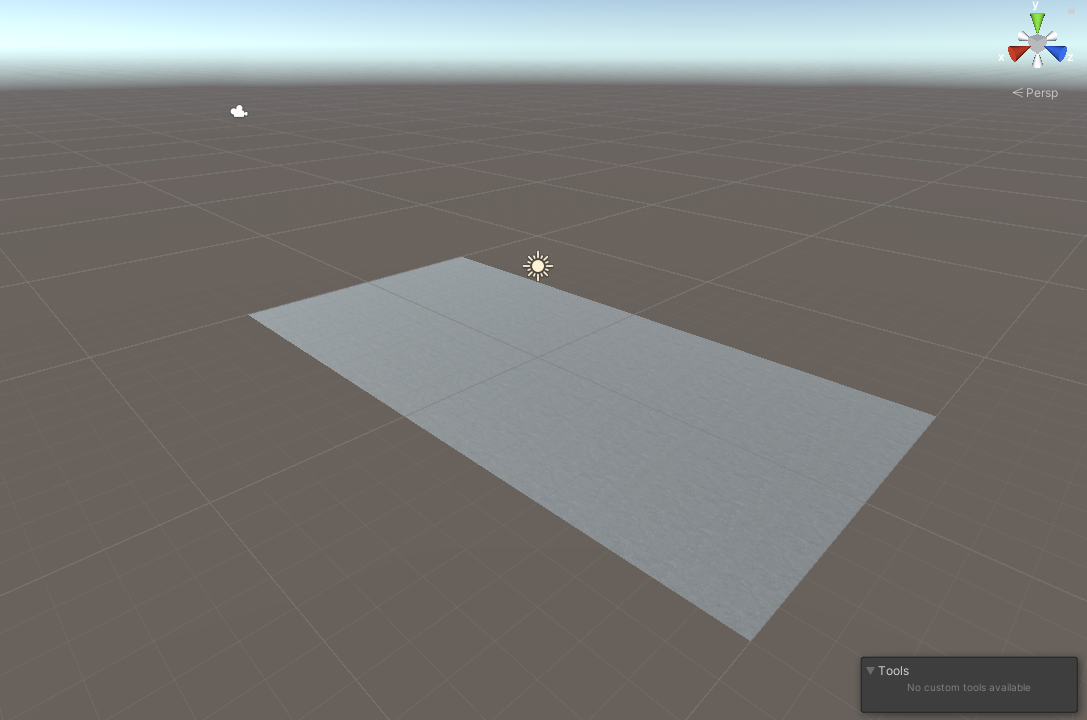
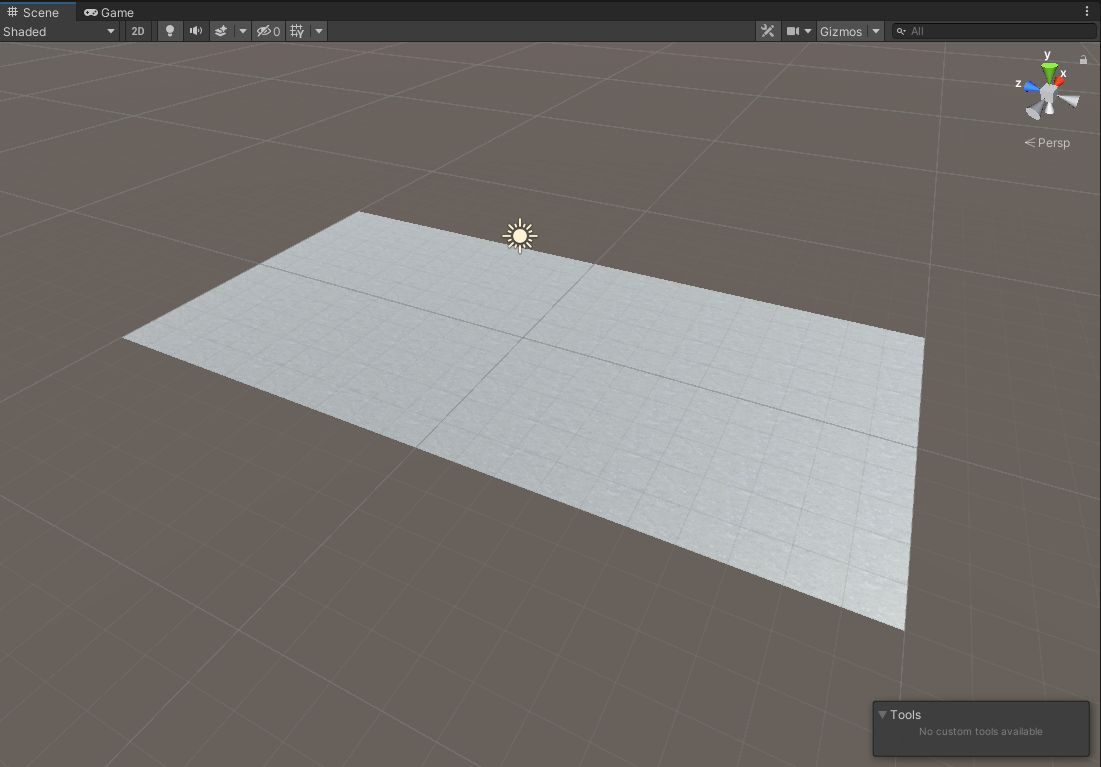
updates to step 2

diff --git a/en/step_2.md b/en/step_2.md
@@ -29,7 +29,7 @@ Download and unzip the [More Unity starter package](https://rpf.io/p/en/rainbow-
 
 Launch the Unity Hub and click **Projects** then select **New project**:
 
-![A screenshot of the black bar at the top of the Unity Hub with the 'New Project' button highlighted in red.](images/new_project.png)
+![A screenshot of the black bar at the top of the Unity Hub with the 'New Project' button highlighted in red.](images/new-project.png)
 
 From the list choose **All templates** then select **3D Core**:
 
@@ -87,13 +87,13 @@ Resize the **Z Scale** of the plane in the Inspector window to `2`:
 
 --- task ---
 
-In the Project window, click on  folders **Materials > Obstacle Materials**.
+In the Project window, click on **Materials > Obstacle Materials**.
 
 **Drag** the 'Concrete floor' material to the plane: 
 
 Your scene should look like this:
 
-![The Scene View with a rectangle plane covered in a grey textured material.](images/plane-scene.png)
+![The Scene View with a rectangle plane covered in a grey textured material.](images/concrete-plane.png)
 
 --- /task ---
 
@@ -103,6 +103,10 @@ Your scene should look like this:
 
 Right-click on **Persp** in the Scene gizmo and choose 'Top' to switch to top-down view:
 
+![Then Persp menu is selected with the 'Top' option highlighted.](images/persp-top.png)
+
+You should now see your project from the top view. 
+
 ![The Scene view with plane viewed from a top down angle.](images/plane-top.png)
 
 --- /task ---
@@ -111,31 +115,62 @@ Right-click on **Persp** in the Scene gizmo and choose 'Top' to switch to top-do
 
 In the Projects window, open the **Parts** folder and drag a 'Goal' into the Scene view. Position the goal near to the top-right of the plane. 
 
-**Tip:** You can either use the 'Move' tool to position the goal or enter the transform position numbers X=3, Y=0, Z=8.
+**Tip:** You can either use the 'Move' tool to position the goal or enter the transform position numbers X=`3`, Y=`0`, Z=`8`:
 
 ![The transform position for the goal.](images/goal-transform.png)
+
+Your goal should now look like this:
+
+![The goal positioned in the top right corner.](images/goal-position.png)
 
 --- /task ---
 
 --- task ---
 
+From the **Parts** folder, drag a 'Ramp_StraightDown' into the Scene view. Position the ramp in front of the goal. 
 
+**Tip:** You can either use the 'Move' tool to position the ramp or enter the transform position numbers X=`3`, Y=`1.5`, Z=`-3.3`:
 
 --- /task ---
+
+It is difficult to see the angle of the ramp from the top view.
 
 --- task ---
 
 Change the perspective to 'Right' using the Scene gizmo. 
 
-Use the 'View Tool' to drag the scene view so that you are looking down on the plane:
+You can move your view of the scene to see it from different angles. The best angle to view your track from is slightly higher than the pieces but angled down:
 
-![The plane viewed from the side and above.](images/scene-above.png)
+[[[unity-scene-navigation]]]
+
+**Tip:** Remember, after navigating to the view you like best your view won't look exactly the same as our examples.
+
+![The plane and ramp viewed from the right side and above.](images/scene-above.png)
+
+--- /task ---
+
+--- task ---
+
+From the **Parts** folder, drag a 'Ramp_Spiral' into the Scene view. Position the spiral so it connects closely with the Ramp_StraightDown. 
+
+You can connect vertices (points) of two different objects in Unity, by holding down the **V** key, hovering close to a vertex, and then dragging it towards the object you want to align with.
+
+![An animated image shown the top corner of the Ramp_Spiral lower edge being selected and dragged to the top corner of the Ramp_StraightDown upper edge .](images/vertex-pieces.gif)
+
+<mark>generic Vertex snapping ingredient</mark>
+
+
+**Tip:** An alternative way to position these two pieces together is to set the transform position of the Ramp_Spiral to X=`3`, Y=`1.5`, Z=`-3.25`.
+--- /task ---
+
+--- task ---
 
 --- /task ---
 
 --- task ---
 
 --- /task ---
+
 
 **Tip:** Your scene will autosave. You can also use 'File->Save' or <kbd>Ctrl+S</kbd> to save at any time. 
 
